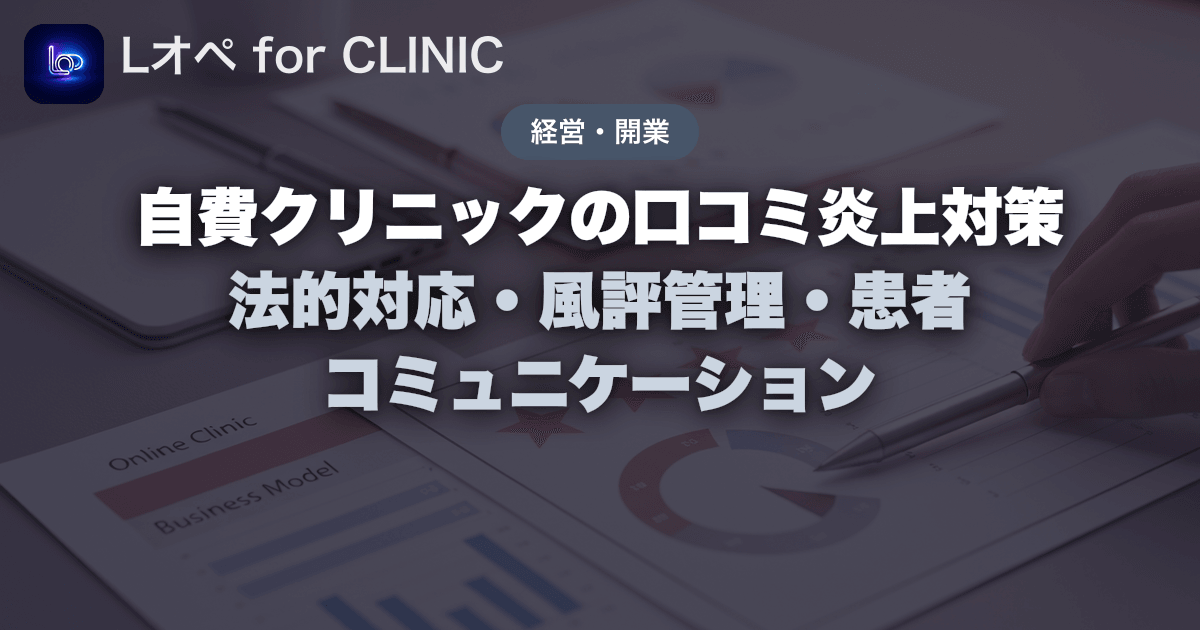
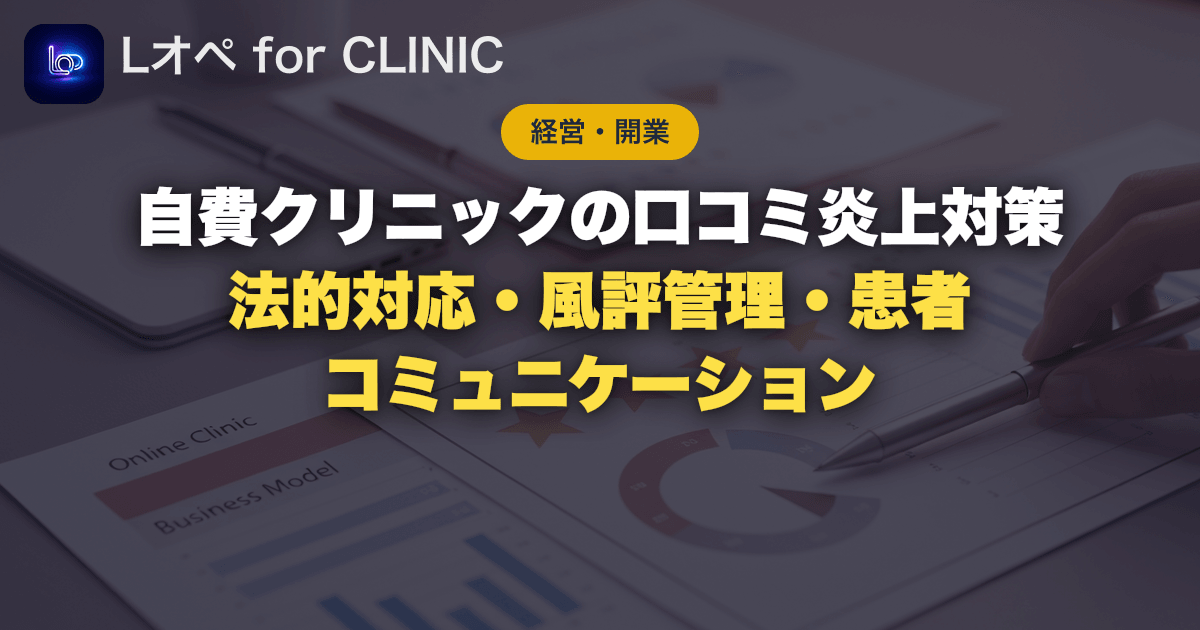
fix: サムネイルのタイトル区切り修正・経営開業カテゴリ色をイエローに変更
- articles.ts: ｜区切りを — に統一（3記事）でサムネイルのアクセント色分割を修正
- 経営・開業カテゴリ: Slate（グレー）→ Yellow（イエロー）に変更（見にくさ改善）
  - バッジ・サブタイトル・記事ページのピル色を全て統一

Changed region(s): [[0.185, 0.4222, 0.8325, 0.6635], [0.4008, 0.1508, 0.5858, 0.2714], [0.0308, 0.0603, 0.0617, 0.1206]]

diff --git a/app/lp/column/articles.ts b/app/lp/column/articles.ts
@@ -247,7 +247,7 @@ export const articles: Article[] = [
   },
   {
     slug: "line-operation-guide",
-    title: "クリニックのLINE公式アカウント運用完全ガイド｜友だち集めから配信・自動化まで",
+    title: "クリニックのLINE公式アカウント運用ガイド — 友だち集めから配信・自動化まで",
     description: "LINE公式アカウントの基本設定から友だち集め・セグメント配信・リッチメニュー・AI自動返信・ブロック率対策まで、クリニックのLINE運用を体系的に解説する完全ガイド。",
     date: "2026-03-18",
     updatedDate: "2026-03-18",
@@ -256,7 +256,7 @@ export const articles: Article[] = [
   },
   {
     slug: "clinic-dx-complete-guide",
-    title: "クリニックDX完全ガイド｜電子カルテ・予約・問診・決済のデジタル化手順",
+    title: "クリニックDX完全ガイド — 電子カルテ・予約・問診・決済のデジタル化手順",
     description: "電子カルテ・予約システム・オンライン問診・オンライン診療・KPIダッシュボードの5領域を体系的に解説。クリニックDXの全体設計図として活用できる完全ガイド。",
     date: "2026-03-18",
     updatedDate: "2026-03-18",
@@ -265,7 +265,7 @@ export const articles: Article[] = [
   },
   {
     slug: "clinic-line-tool-5-comparison",
-    title: "クリニック向けLINEツール5社比較｜メディカルフォース・March・medibot・Lステップとの違い",
+    title: "クリニック向けLINEツール5社比較 — メディカルフォース・March・medibot・Lステップとの違い",
     description: "クリニック向けLINE活用ツール5社（Lオペ for CLINIC・メディカルフォース・March・medibot・Lステップ）を機能・費用・LINE連携度で徹底比較。自院に合うツールの選び方を解説。",
     date: "2026-03-18",
     updatedDate: "2026-03-18",

diff --git a/scripts/generate-column-thumbnails.ts b/scripts/generate-column-thumbnails.ts
@@ -73,10 +73,10 @@ const categoryDesign: Record<string, CategoryDesign> = {
     titleColor: "#ffffff", titleAccent: "#fda4af", subColor: "#fecdd3",
   },
   "経営・開業": {
-    bgHint: "professional office with business planning documents and blueprints, slate tones",
+    bgHint: "professional office with business planning documents and blueprints, warm yellow tones",
     overlay: "rgba(15,23,42,0.72)",
-    badgeBg: "#475569", badgeText: "#ffffff",
-    titleColor: "#ffffff", titleAccent: "#cbd5e1", subColor: "#e2e8f0",
+    badgeBg: "#eab308", badgeText: "#1e293b",
+    titleColor: "#ffffff", titleAccent: "#fde047", subColor: "#fef08a",
   },
   "自費診療の売上戦略": {
     bgHint: "luxury clinic interior with pricing charts and revenue dashboard, orange tones",

diff --git a/app/lp/column/_components/column-index.tsx b/app/lp/column/_components/column-index.tsx
@@ -10,7 +10,7 @@ import ArticleThumbnail from "./article-thumbnail";
 const categoryStyles: Record<string, { pill: string }> = {
   "LINE運用・業務改善":   { pill: "bg-blue-50 text-blue-600 ring-blue-200/50" },
   "集患・マーケティング": { pill: "bg-rose-50 text-rose-600 ring-rose-200/50" },
-  "経営・開業":           { pill: "bg-slate-100 text-slate-600 ring-slate-200/50" },
+  "経営・開業":           { pill: "bg-yellow-50 text-yellow-700 ring-yellow-200/50" },
   "自費診療の売上戦略":   { pill: "bg-orange-50 text-orange-600 ring-orange-200/50" },
   "オンライン診療":       { pill: "bg-teal-50 text-teal-600 ring-teal-200/50" },
   "診療科別ガイド":       { pill: "bg-violet-50 text-violet-600 ring-violet-200/50" },

diff --git a/app/lp/column/_components/article-layout.tsx b/app/lp/column/_components/article-layout.tsx
@@ -137,7 +137,7 @@ export function InlineCTA() {
 const categoryColors: Record<string, { bg: string; text: string }> = {
   "LINE運用・業務改善": { bg: "bg-blue-50", text: "text-blue-700" },
   "集患・マーケティング": { bg: "bg-rose-50", text: "text-rose-700" },
-  "経営・開業": { bg: "bg-slate-100", text: "text-slate-700" },
+  "経営・開業": { bg: "bg-yellow-50", text: "text-yellow-700" },
   "自費診療の売上戦略": { bg: "bg-orange-50", text: "text-orange-700" },
   "オンライン診療": { bg: "bg-teal-50", text: "text-teal-700" },
   "診療科別ガイド": { bg: "bg-violet-50", text: "text-violet-700" },

diff --git a/app/lp/column/category/[category]/page.tsx b/app/lp/column/category/[category]/page.tsx
@@ -10,7 +10,7 @@ const SITE_URL = "https://l-ope.jp";
 const categoryStyles: Record<string, string> = {
   "LINE運用・業務改善": "bg-blue-50 text-blue-600 ring-blue-200/50",
   "集患・マーケティング": "bg-rose-50 text-rose-600 ring-rose-200/50",
-  "経営・開業": "bg-slate-100 text-slate-600 ring-slate-200/50",
+  "経営・開業": "bg-yellow-50 text-yellow-700 ring-yellow-200/50",
   "自費診療の売上戦略": "bg-orange-50 text-orange-600 ring-orange-200/50",
   "オンライン診療": "bg-teal-50 text-teal-600 ring-teal-200/50",
   "診療科別ガイド": "bg-violet-50 text-violet-600 ring-violet-200/50",
